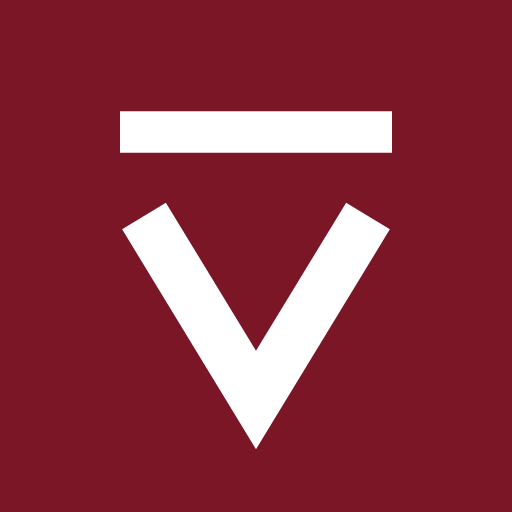
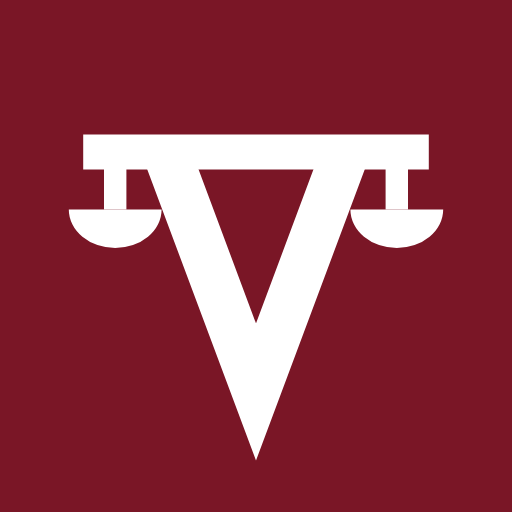
Refine the mark so it reads as scales at 28 px
The beam floated above the V and read as a V with a macron at sidebar
size. The V's arms now meet the beam, which carries two short hangers and
half-round pans; below 24 px (the 16 px favicon) the mark keeps only the
V and the joined beam. Updated in Logo.tsx, every file in public/brand,
app/icon.svg, and the rasters (favicon.ico with 16/32/48 PNGs,
apple-icon 180, icon-192/512). Strokes and flat fills only. DESIGN.md
'Logo and icons' describes the new mark and the size rule; brand.test.tsx
checks both sizes and that the files share the component's geometry.

Changed region(s): [[0.125, 0.2188, 0.875, 0.8125], [0.4688, 0.8438, 0.5312, 0.9062]]

diff --git a/frontend/components/common/Logo.tsx b/frontend/components/common/Logo.tsx
@@ -1,4 +1,5 @@
-// Brand: a V whose arms carry a balance beam (scales and the letter in one stroke), on a maroon square.
+// Brand: a V whose arms meet a balance beam with two short hangers and pans, so the letter and the scales are one figure,
+// on a maroon square. Below 24 px the hangers and pans would blur, so the mark drops them and keeps the V and the beam.
 // Source of truth for the artwork is public/brand/*.svg; this component draws the same geometry inline.
 import type { ReactElement } from "react";
 import { cn } from "@/lib/utils";
@@ -13,11 +14,23 @@ export interface BandsMarkProps {
 export function BandsMark({ size = 28, className, tone = "solid" }: BandsMarkProps): ReactElement {
   const tile = tone === "solid" ? "var(--color-maroon)" : "var(--color-cream)";
   const glyph = tone === "solid" ? "var(--color-cream)" : "var(--color-maroon)";
+  const small = size < 24;
   return (
-    <svg viewBox="0 0 32 32" width={size} height={size} aria-hidden focusable="false" className={cn("shrink-0", className)}>
+    <svg viewBox="0 0 32 32" width={size} height={size} aria-hidden focusable="false" data-mark={small ? "small" : "full"} className={cn("shrink-0", className)}>
       <rect width="32" height="32" rx="6" fill={tile} />
-      <path d="M9 13.5 16 25l7-11.5" fill="none" stroke={glyph} strokeWidth="3.2" strokeLinejoin="miter" />
-      <path d="M7.5 8.25h17" fill="none" stroke={glyph} strokeWidth="2.6" />
+      {small ? (
+        <>
+          <path d="M10 9.5 16 25l6-15.5" fill="none" stroke={glyph} strokeWidth="3.4" strokeLinejoin="miter" />
+          <path d="M6 9.5h20" fill="none" stroke={glyph} strokeWidth="2.6" />
+        </>
+      ) : (
+        <>
+          <path d="M10.4 9.5 16 24.5 21.6 9.5" fill="none" stroke={glyph} strokeWidth="3" strokeLinejoin="miter" />
+          <path d="M5.2 9.5h21.6" fill="none" stroke={glyph} strokeWidth="2.2" />
+          <path d="M7.2 9.5v3.6M24.8 9.5v3.6" fill="none" stroke={glyph} strokeWidth="1.4" />
+          <path d="M4.3 13.1h5.8a2.9 2.4 0 0 1-5.8 0ZM21.9 13.1h5.8a2.9 2.4 0 0 1-5.8 0Z" fill={glyph} />
+        </>
+      )}
     </svg>
   );
 }

diff --git a/frontend/tests/unit/brand.test.tsx b/frontend/tests/unit/brand.test.tsx
@@ -89,3 +89,23 @@ describe("<Footer /> (fails until implemented)", () => {
     for (const img of container.querySelectorAll("img")) expect(img.getAttribute("src") ?? "").not.toMatch(FORBIDDEN);
   });
 });
+
+describe("the mark", () => {
+  it("draws the full scales from 24 px and the small V and beam below", async () => {
+    const { BandsMark } = await import("@/components/common/Logo");
+    const { container: big } = render(<BandsMark size={28} />);
+    expect(big.querySelector("svg")?.getAttribute("data-mark")).toBe("full");
+    expect(big.querySelectorAll("path")).toHaveLength(4);
+    const { container: small } = render(<BandsMark size={16} />);
+    expect(small.querySelector("svg")?.getAttribute("data-mark")).toBe("small");
+    expect(small.querySelectorAll("path")).toHaveLength(2);
+  });
+
+  it("the brand files carry the same geometry as the component", () => {
+    for (const f of ["public/brand/mark.svg", "app/icon.svg", "public/brand/lockup.svg"]) {
+      const text = fs.readFileSync(path.join(FRONTEND_ROOT, f), "utf8");
+      expect(text, f).toContain("M10.4 9.5 16 24.5 21.6 9.5");
+      expect(text, f).toContain("M7.2 9.5v3.6M24.8 9.5v3.6");
+    }
+  });
+});

diff --git a/frontend/DESIGN.md b/frontend/DESIGN.md
@@ -105,7 +105,7 @@ White text on maroon is 10.7:1. Status colours always travel with an icon and a 
 
 ## Logo and icons
 
-Mark: a V whose arms carry a balance beam, so the letter and the scales are one stroke, white on a maroon square (6/32 radius). Two strokes, no fill shapes, no dots, no gradient. It holds at 16 px (checked at 16, 32, 64, 128 and 256 px) and in one colour.
+Mark: a V whose arms meet a balance beam that carries two short hangers and pans, so the letter and the scales are one figure, white on a maroon square (6/32 radius). Strokes for the V, beam and hangers, two small half-round pans; no dots, no gradient. From 24 px the full mark is used (checked at 24, 28, 64, 128 and 512 px: it reads as scales at the 28 px of the sidebar); below 24 px (the 16 px favicon) the hangers and pans would blur, so the small mark keeps only the V and the beam, joined. One colour throughout. The previous mark (a beam floating above the V) read as a V with a macron at 28 px.
 
 Files (hand-authored SVG) in `public/brand/`: `mark.svg` (maroon tile, white glyph), `mark-mono.svg` (maroon with the glyph cut out, one colour, for print and stamps), `mark-reversed.svg` (cream tile, glyph cut out, for dark backgrounds), `mark-square.svg` (full-bleed, source for the app icons), `lockup.svg` and `lockup-reversed.svg` (mark plus the wordmark). The lockup SVGs name Newsreader in `font-family`; they render correctly where the font is installed and fall back to Georgia elsewhere. In the app the `Logo` component draws the same geometry inline and sets the wordmark in the self-hosted Newsreader, so use the component, not the lockup files, inside the product.
 
@@ -114,7 +114,7 @@ Rules:
 - Minimum size: mark 16 px; lockup 24 px high. Below 24 px use the mark alone.
 - Colour: maroon `#7A1626` with white or cream. One-colour use is `mark-mono.svg`. On dark backgrounds use `mark-reversed.svg`. Never recolour, outline, rotate, add effects, or place on busy imagery.
 - No Devanagari line under the wordmark: at the sizes the product uses it was not legible beside the Latin. The motto appears only in the landing footer.
-- Icons: `app/icon.svg` (the mark), `app/favicon.ico` (16, 32 and 48 px, rasterised from the mark), `app/apple-icon.png` (180 px, full-bleed), `public/icon-192.png` and `public/icon-512.png` (full-bleed, used by `app/manifest.ts`; theme `#7A1626`, background `#F7F5F0`).
+- Icons: `app/icon.svg` (the mark), `app/favicon.ico` (16, 32 and 48 px PNGs; the 16 px one from the small mark), `app/apple-icon.png` (180 px, full-bleed), `public/icon-192.png` and `public/icon-512.png` (full-bleed, used by `app/manifest.ts`; theme `#7A1626`, background `#F7F5F0`).
 
 ## Spacing, radius, elevation
 
